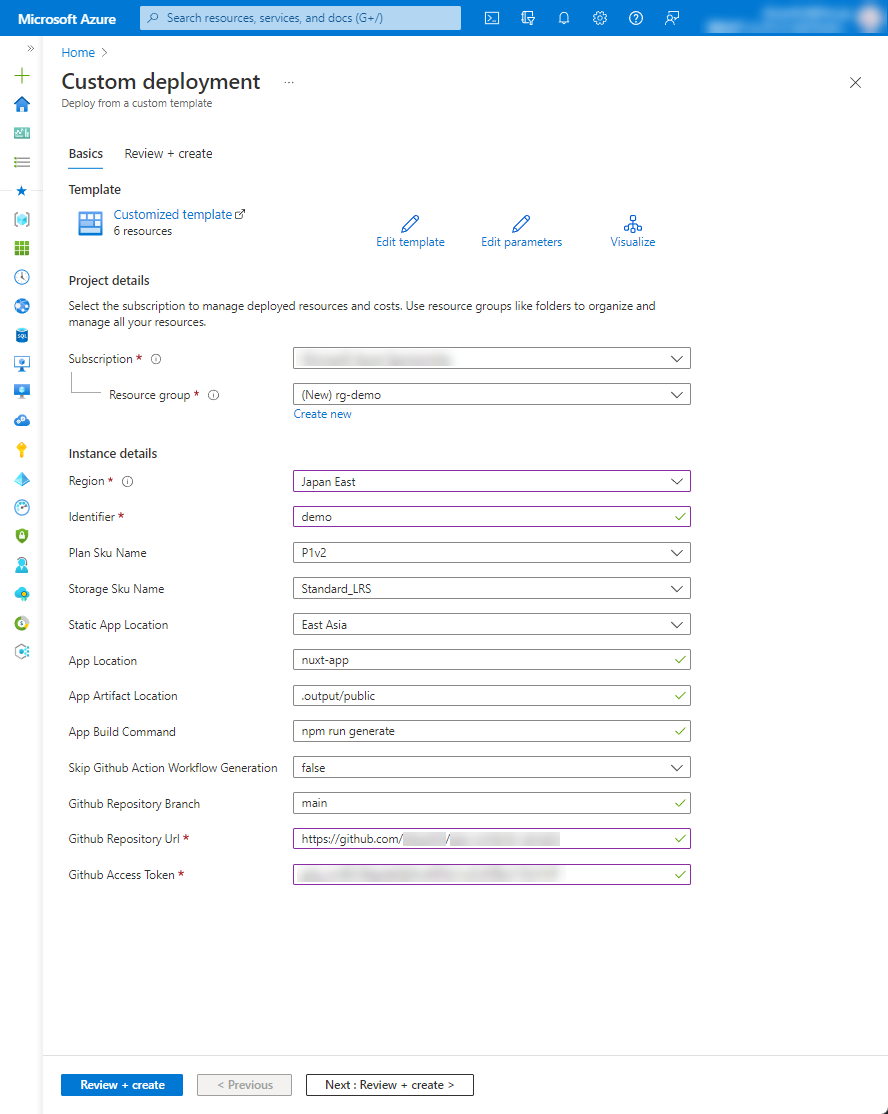
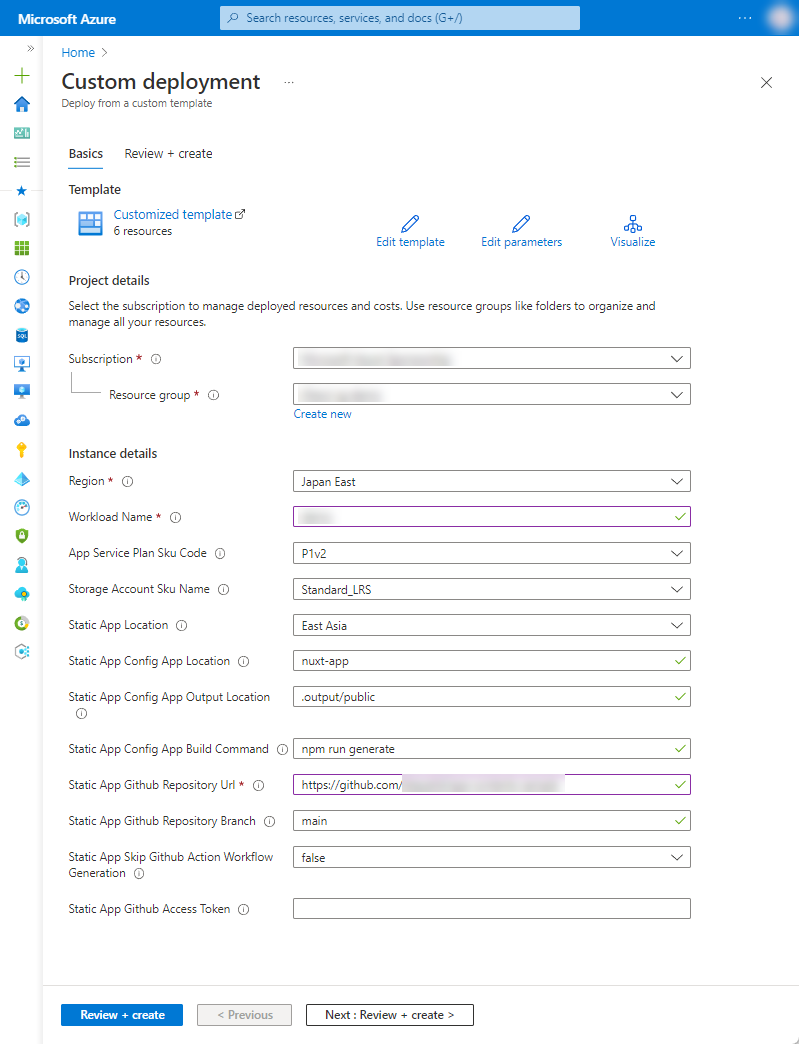
Update docs

diff --git a/1_web-application/1-1_spa-on-serverless/README.md b/1_web-application/1-1_spa-on-serverless/README.md
@@ -1,21 +1,37 @@
 # 1-1	Nuxt.js で SPA をサーバーレス環境にデプロイしたい
 
+Nuxt.js を使用してシングルページアプリケーション (SPA) をサーバーレス環境にデプロイしたい際の構成例です。
+
+静的コンテンツホスティングに最適化された環境である Azure Static Web Apps を使用することで CI/CD 環境からステージング、本番環境まで一括で展開することができます。
+
+
 ## 構成
 
-- Azure Static Web Apps
-- Azure Functions
+<img src="./docs/images/1-1_spa-on-serverless_structure.png" width="80%" alt="構成図">
 
-![構成図](./docs/images/1-1_spa-on-serverless_structure.png)
+
+### Azure リソース構成
+
+- フロントエンド
+  - Azure Static Web Apps
+- バックエンド
+  - Azure Functions
+  - Azure App Service
+  - Azure Storage Account
+
+<img src="./docs/images/generated-structure-by-arm.png" width="80%" alt="Azure リソース構成図">
+
 
 ## 利用方法
 
-下記の「Deploy to Azure」ボタンをクリックすると、デプロイ用のパラメータ入力画面に遷移します。
+下記の「Deploy to Azure」ボタンから開くと、Azure ポータルのデプロイ用のパラメータ入力画面に遷移します。
 
 [![Deploy to Azure](https://aka.ms/deploytoazurebutton)](https://portal.azure.com/#create/Microsoft.Template/uri/https%3A%2F%2Fraw.githubusercontent.com%2Fquickstart-templates%2FAzure-for-startups%2Fmain%2F1_web-application%2F1-1_spa-on-serverless%2Fazuredeploy.json)
 
-![デプロイのパラメータ入力画面](./docs/images/deploy_001.png)
 
 下記の情報を入力して「Review + create」ボタンを選択し、パラメータの検証が正常に完了したら、「Create」ボタンを選択してデプロイを実行します。
+
+<img src="./docs/images/deploy_001.png" width="80%" alt="デプロイのパラメータ入力画面">
 
 | 項目 | 説明 |
 |----|----|
@@ -24,38 +40,40 @@
 | Resource Group | 利用する既存のグループを選択、または「Create new」から新規作成 |
 | Instance details | |
 | Region | 利用するリージョンを選択 |
-| workloadName | リソース名に付与する識別用の文字列（プロジェクト名など）を入力 |
-| Plan Sku Name | Azure App Service Plann の SKU を選択 |
-| Storage Sku Name | Azure Functions に利用する Azure Storage Account の SKU を選択 |
-| Static App Location | Azure Static Web App の API におけるリージョン（※）を選択 |
-| App Location | |
-| App Artifact Location | |
-| App Build Command | |
-| Skip GitHub Action Workflow Generation | |
-| GitHub Repository Branch | |
-| GitHub Repository Url | |
-| GitHub Access Token | |
+| Workload Name | リソース名に付与する識別用の文字列（プロジェクト名など）を入力 |
+| App Service Plan Sku Name | Azure App Service Plan の SKU を選択 |
+| Storage Account Sku Name | Azure Functions に利用する Azure Storage Account の SKU を選択 |
+| Static App Location | Azure Static Web App の API におけるリージョン（※1）を選択 |
+| Static App Config App Location | Azure Static Web App のビルド構成（※2）の `app_location` を入力（デフォルトは Nuxt.js 3 の場合の例） |
+| Static App Config App Output Location | Azure Static Web App のビルド構成（※2）の `output_location` を入力（デフォルトは Nuxt.js 3 の場合の例） |
+| Static App Config App Build Command | Azure Static Web App のビルド構成（※2）の `app_build_command` を入力（デフォルトは Nuxt.js 3 の場合の例） |
+| Static App Github Repository Url | Azure Static Web App にデプロイするコードを含む GitHub リポジトリのURLを指定（例: `https://github.com/{owner}/{repository}`） |
+| Static App Github Repository Branch | Azure Static Web App にデプロイするブランチを指定 |
+| Static App Skip GitHub Action Workflow Generation | 指定したソースリポジトリに対する GitHub Actions のワークフローファイルの生成をスキップするかどうかを選択（生成する場合は `false`, 生成しない場合は `true`）（※3） |
+| Static App Github Access Token | GitHub personal Access token （スコープ `repo`, `workflow`）を入力。GitHub Action ワークフローを作成する場合に必要（※4） |
 
-### Azure Static Web App の設定値について
+- ※1 Azure Static Web App の API におけるリージョンは、内蔵型の API を利用する際に展開する先を指します。本テンプレートの構成では、外部 API を利用するのでリージョンの指定は無効となりますが、必須項目のため設定します。
+- ※2 Azure Static Web App のビルド構成については、[Azure Static Web Apps のビルド構成 | Microsoft Docs](https://docs.microsoft.com/ja-jp/azure/static-web-apps/build-configuration) をご参照ください。
+- ※3 GitHub Actions のワークフロー生成をスキップすると、コードのデプロイは行われません。GitHub personal access token も不要です。
+- ※4 GitHub Personal access token については、[個人アクセストークンを使用する - GitHub Docs](https://docs.github.com/ja/authentication/keeping-your-account-and-data-secure/creating-a-personal-access-token) をご参照ください。スコープは `repo`, `workflow` が必要です。
 
-ビルド構成については、こちらをご参照ください。
-
-- [Azure Static Web Apps のビルド構成 | Microsoft Docs](https://docs.microsoft.com/ja-jp/azure/static-web-apps/build-configuration)
-
-※ Azure Static Web App の API におけるリージョンは、内蔵型の API を利用する際に展開する先です。本テンプレートの校正では、外部 API を利用するのでリージョンの指定は向こうとなりますが、必須項目のため設定します。
 
 ### 備考
 
-- 命名規則については、[名前付け規則を定義する - Cloud Adoption Framework | Microsoft Docs](https://docs.microsoft.com/ja-jp/azure/cloud-adoption-framework/ready/azure-best-practices/resource-naming) も併せてご参考ください。
+- Azure リソースの命名規則については、[名前付け規則を定義する - Cloud Adoption Framework | Microsoft Docs](https://docs.microsoft.com/ja-jp/azure/cloud-adoption-framework/ready/azure-best-practices/resource-naming) も併せてご参考ください。
+
 
 ## デバッグ
+
+本テンプレートをデバッグする場合は、ご参考ください。
+
 
 ### Azure CLI によるデプロイ
 
 ```bash
 WORKLOAD_NAME="{string to identify your resources}"
 RESOURCE_GROUP_NAME="rg-${WORKLOAD_NAME}"
-LOCATION="{Location}"
+LOCATION="{location that resources are deploy}"
 az group create --name ${RESOURCE_GROUP_NAME} --location ${LOCATION}
 az deployment group create --resource-group ${RESOURCE_GROUP_NAME} --template-file bicep/azuredeploy.bicep
 ```
